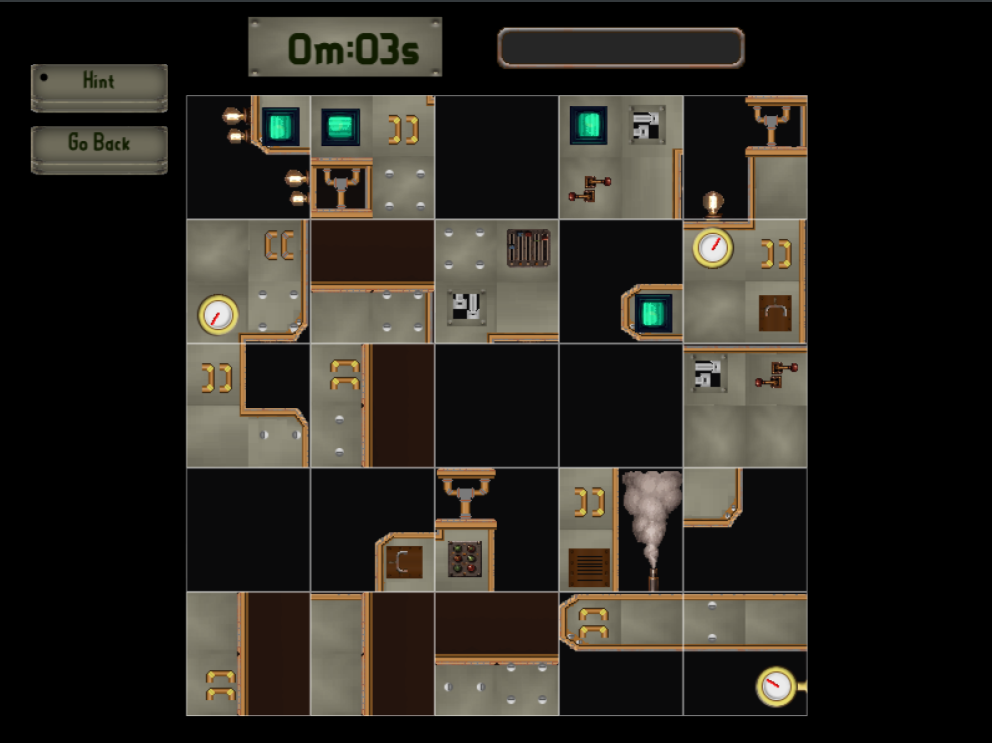
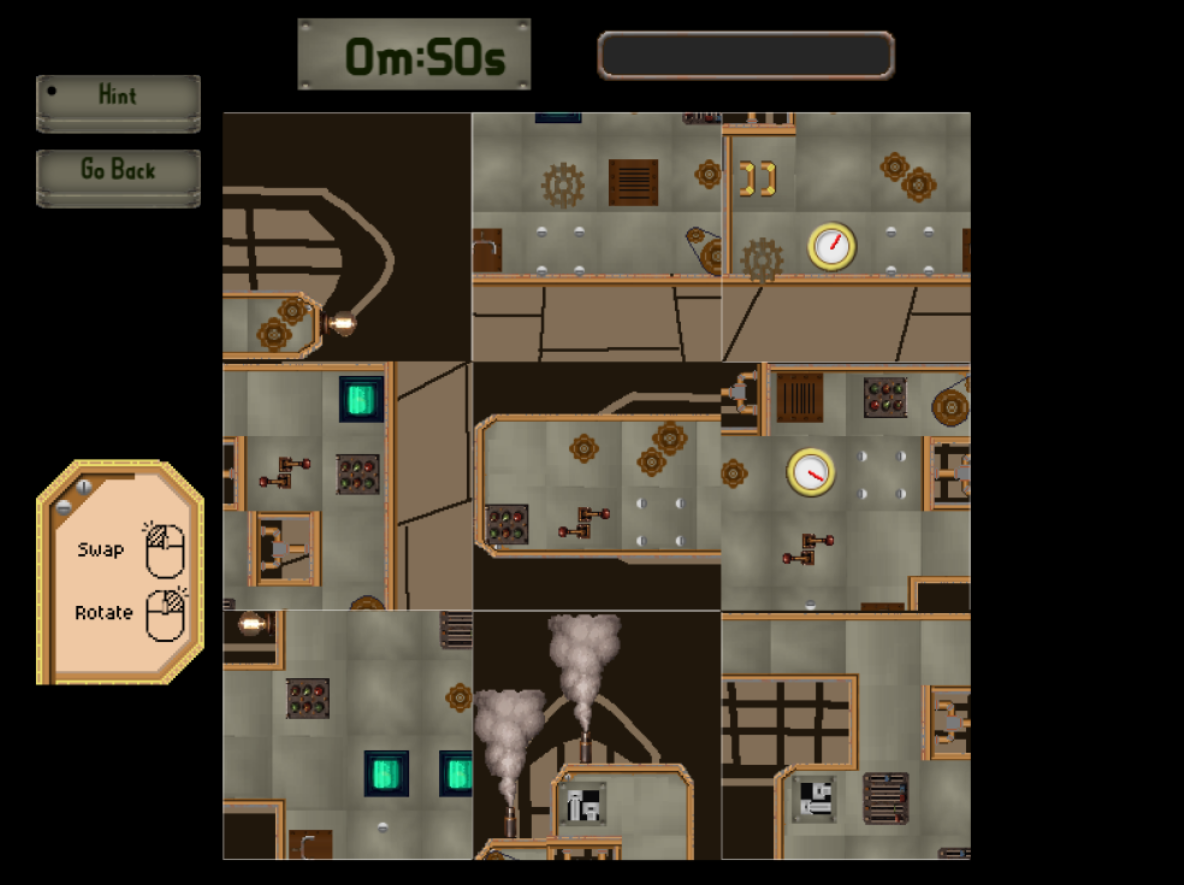
fixed initial tile check bug

diff --git a/src/Scenes/game.ts b/src/Scenes/game.ts
@@ -252,6 +252,9 @@ export class GameScene<T extends MyLevelData> extends Scene {
     this.puzzleStats.startTime = Date.now();
     this.timerTick = 0;
     this.timerEnable = true;
+
+    //do initial winning check on each tile
+    this.actors.filter(act => act instanceof TileActor).forEach(tile => tile.checkForWin());
   }
 
   //runs when scene is moved out of